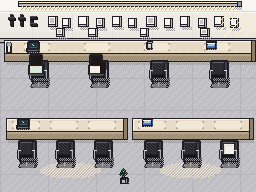
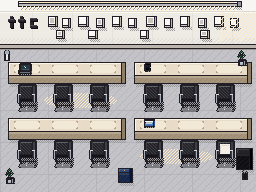
Strip hutong down to two parallel desk rows.
Remove the far-wall seats and any bottom strip. Keep ttc and frames on
the wall only. Center two workstation rows with empty pads; leftover
floor gets props, not more chairs.

diff --git a/public/index.html b/public/index.html
@@ -162,7 +162,7 @@
       </section>
       <section>
         <h2>保留场景 · 11</h2>
-        <p class="note">胡同（就两排桌子：远墙四座 + 再一排工位）/ 电梯间 / 夏威夷（开窗见蓝天高楼 · 左3椅 · 右3椅 · 约六座）/ 泡泡玛特 / 厕所 / 普通工位 / 会议室 / 演唱会 / 咖啡店 / 健身房 / 米线店。</p>
+        <p class="note">胡同（就两排平行工位，远墙只留装饰）/ 电梯间 / 夏威夷（开窗见蓝天高楼 · 左3椅 · 右3椅 · 约六座）/ 泡泡玛特 / 厕所 / 普通工位 / 会议室 / 演唱会 / 咖啡店 / 健身房 / 米线店。</p>
         <div class="grid" id="rooms"></div>
       </section>
       <section>
@@ -209,7 +209,7 @@
     const ROOMS = [
       { id:"hutong", title:"胡同工位区", src:"assets/scenes/hutong/scene_hutong.png",
         line:"这边还能放杯子。", y:148, t:"09:20", action:"sit_aisle",
-        why:"就两排桌子：远墙四座朝墙 + 再一排平行工位。ttc / 镜框。大块空 pad。" },
+        why:"就两排平行工位。远墙只留 ttc / 镜框，不靠墙摆桌或座。大块空 pad。" },
       { id:"elevator", title:"电梯间", src:"assets/scenes/elevator/scene_elevator.png",
         line:"先等这梯。", y:140, t:"09:12", action:"wait_lift",
         why:"米黄石材、开门、雕塑台座、屏与按钮。" },

diff --git a/scripts/generate_rooms.py b/scripts/generate_rooms.py
@@ -1,7 +1,7 @@
 #!/usr/bin/env python3
 """11 Laura-named scenes — 2.5D refined pixel, 256×192, empty desk pads.
 
-v3: hawaii open window + 6 seats; hutong two desk rows + 4 wall seats;
+v3: hawaii open window + 6 seats; hutong two parallel desk rows only;
 concert / cafe / gym / mixian added. Same 1px ink + wall-FACE language.
 """
 from __future__ import annotations
@@ -444,62 +444,62 @@ def office_floor(d, y0, c1, c2, seam):
 
 
 # ===========================================================================
-# 1. 胡同 — 就两排桌子：远墙一排四座 + 再一排平行工位
+# 1. 胡同 — 就两排平行工位（远墙只留装饰，无座无桌）
 # ===========================================================================
 def scene_hutong() -> Image.Image:
     room = new(W, H, HT["floor"])
     d = ImageDraw.Draw(room)
     office_floor(d, 46, HT["floor"], HT["floor2"], HT["gap"])
-    light_pool(d, 70, 170, 30, 8, HT["sun"], 3)
-    light_pool(d, 190, 170, 30, 8, HT["sun"], 3)
+    light_pool(d, 80, 100, 36, 8, HT["sun"], 3)
+    light_pool(d, 176, 156, 36, 8, HT["sun"], 3)
 
     rect(d, [0, 0, W - 1, 10], HT["ceil"])
     fluorescent(d, 18, 1, 220, HT["sun"])
-    wall_face(d, 0, 11, W - 1, 38, HT["wall"], lip=4, lip_c=HT["lip"])
-    draw_ttc(d, 8, 14)
+    wall_face(d, 0, 11, W - 1, 44, HT["wall"], lip=4, lip_c=HT["lip"])
+    draw_ttc(d, 8, 16)
     frames = (
         (48, 16, 8, 9), (62, 18, 7, 8), (78, 16, 9, 9),
         (96, 18, 7, 8), (112, 16, 8, 9), (128, 18, 7, 8),
         (146, 16, 9, 9), (164, 18, 7, 8), (180, 16, 8, 9),
         (198, 18, 7, 8), (214, 16, 8, 9), (230, 18, 7, 8),
-        (56, 28, 7, 7), (88, 28, 8, 7), (140, 28, 7, 7), (200, 28, 8, 7),
+        (56, 30, 7, 7), (88, 30, 8, 7), (140, 30, 7, 7), (200, 30, 8, 7),
     )
     for i, (fx, fy, fw, fh) in enumerate(frames):
         prism(d, fx, fy, fw, fh, 2, HT["frame"], HT["wall_d"], HT["lip"])
         if i % 3 == 0:
             rect(d, [fx + 2, fy + 2, fx + fw - 3, fy + fh - 3], shade(HT["wall_d"], -6))
-    dither(d, 220, 12, 254, 36, HT["sun"], 5)
+    dither(d, 220, 12, 254, 40, HT["sun"], 5)
+    # wall is decor only — no desk, no chairs against it
 
-    # ROW 1 — wall-flush desk + 4 chairs facing the wall
-    prism(d, 4, 40, 248, 14, 8, HT["desk"], HT["desk_e"])
-    dither(d, 8, 42, 246, 50, shade(HT["desk"], -12), 8)
-    top_bays = (16, 76, 136, 196)
-    top_items = (prop_laptop(), None, prop_cup(), prop_notebook())
-    for bx, spr in zip(top_bays, top_items):
-        empty_pad(d, bx + 8, 43, 26, 8, HT["pad"], shade(HT["desk_e"], 16))
-        if spr:
-            blit(room, spr, bx + 10, 41)
-        blit(room, chair_north(), bx + 12, 60)
-    blit(room, seated_facing_wall("cast_02"), 86, 54)
-    blit(room, seated_facing_wall("cast_05"), 26, 54)
+    def desk_row(y, left_item, right_item, jackets=(False, False)):
+        for x, item, jacket in (
+            (8, left_item, jackets[0]),
+            (134, right_item, jackets[1]),
+        ):
+            prism(d, x, y, 114, 14, 8, HT["desk"], HT["desk_e"])
+            empty_pad(d, x + 6, y + 3, 26, 8, HT["pad"], shade(HT["desk_e"], 16))
+            empty_pad(d, x + 44, y + 3, 26, 8, HT["pad"], shade(HT["desk_e"], 16))
+            empty_pad(d, x + 82, y + 3, 26, 8, HT["pad"], shade(HT["desk_e"], 16))
+            if item:
+                blit(room, item, x + 10, y + 1)
+            blit(room, chair_north(), x + 8, y + 22)
+            blit(room, chair_north(), x + 44, y + 22)
+            blit(room, chair_north(jacket=jacket), x + 80, y + 22)
 
-    # ROW 2 — one parallel workstation row (two islands, aisle in the middle)
-    for x, item, jacket in (
-        (6, prop_laptop(), False),
-        (132, prop_notebook(), True),
-    ):
-        prism(d, x, 118, 118, 14, 8, HT["desk"], HT["desk_e"])
-        empty_pad(d, x + 6, 121, 28, 8, HT["pad"], shade(HT["desk_e"], 16))
-        empty_pad(d, x + 44, 121, 28, 8, HT["pad"], shade(HT["desk_e"], 16))
-        empty_pad(d, x + 82, 121, 28, 8, HT["pad"], shade(HT["desk_e"], 16))
-        if item:
-            blit(room, item, x + 10, 118)
-        blit(room, chair_north(), x + 10, 140)
-        blit(room, chair_north(), x + 48, 140)
-        blit(room, chair_north(jacket=jacket), x + 86, 140)
+    # exactly two parallel workstation rows, centered in the floor
+    desk_row(62, prop_laptop(), prop_cup((40, 40, 46, 255)), (False, False))
+    desk_row(118, None, prop_notebook(), (False, True))
 
-    blit(room, prop_plant(), 118, 168)
-    blit(room, prop_spray(), 6, 42)
+    # leftover space: props / floor clutter — not more seats
+    blit(room, prop_plant(), 4, 168)
+    blit(room, prop_plant(), 236, 50)
+    blit(room, prop_spray(), 4, 50)
+    blit(room, prop_bottle(), 242, 168)
+    # bin
+    prism(d, 236, 148, 14, 6, 16, HT["chair"], shade(HT["chair"], -16))
+    # backpack on the aisle
+    prism(d, 118, 168, 12, 5, 10, (46, 72, 120, 255), (28, 44, 78, 255))
+    d.point((124, 170), fill=(210, 168, 80, 255))
     return room
 
 
@@ -1122,10 +1122,10 @@ def scene_mixian() -> Image.Image:
 
 SCENES = [
     dict(id="hutong", title="胡同工位区",
-         blurb="就两排桌子：远墙四座朝墙 + 再一排平行工位 · 大块空 pad",
+         blurb="就两排平行工位 · 远墙只留 ttc/镜框 · 大块空 pad",
          fn=scene_hutong, walk_y=148, line="这边还能放杯子。",
          beat_t="09:20", action="sit_aisle",
-         why="白墙 ttc + 镜框。就两排桌子：远墙一条浅色长桌、四把黑椅朝墙；再一排平行工位岛（中留过道、每岛三椅三 pad）。没有第三排。不描摹合影里的人。"),
+         why="就两排平行工位桌（每排两岛、中留过道、每岛三椅三 pad）。远墙只留 ttc 和镜框，不靠墙摆桌或座。没有底排。空地用植物/喷壶/垃圾桶补密度，不加座位。"),
     dict(id="elevator", title="电梯间",
          blurb="米黄石材 · 开门体积 · 雕塑台座 · 屏与按钮",
          fn=scene_elevator, walk_y=140, line="先等这梯。",

diff --git a/design/art-brief.md b/design/art-brief.md
@@ -15,7 +15,7 @@
 |------|------|
 | 相机 | 略俯，能看见桌面顶面和椅背 |
 | 角色 | 大头小身 chibi，不是写实肖像 |
-| 深度 | 阴影、墙厚、遮挡；胡同就两排桌子：远墙四座 + 再一排工位 |
+| 深度 | 阴影、墙厚、遮挡；胡同就两排平行工位，远墙只留装饰 |
 | 轮廓 | **1px** 深色描边，不要 2px 粗块 |
 | 缩放 | `image-rendering: pixelated`，整数倍 |
 
@@ -23,7 +23,7 @@
 
 | 场景 | 地板 | 光 | 硬规则 |
 |------|------|----|--------|
-| 胡同工位区 | 浅灰地 | 白墙顶灯 | 就两排桌子：远墙四座朝墙 + 再一排平行工位。保留 ttc / 镜框。大块空 pad。不描合影人物 |
+| 胡同工位区 | 浅灰地 | 白墙顶灯 | 就两排平行工位。远墙只留 ttc / 镜框，不靠墙摆桌或座。大块空 pad。不描合影人物 |
 | 电梯间 | 白石大理石 | 筒灯暖白 | 米黄石材、开门、雕塑、屏与按钮 |
 | 夏威夷 | 暖木 | 开窗日光 | 开窗可见蓝天高楼（像素天际线）。左竖桌内侧 3 椅，右竖桌旁 3 椅，约六座。窗前不摆椅。奶油墙。 |
 | 泡泡玛特 | 粉×薄荷细格 | 粉/青灯带 | 柜台不要堆死 |

diff --git a/design/scenes/hutong.md b/design/scenes/hutong.md
@@ -2,9 +2,9 @@
 
 > 精致像素 · 256×192 · 2.5D · 桌面留物位
 
-就两排桌子：远墙四座朝墙 + 再一排平行工位 · 大块空 pad
+就两排平行工位 · 远墙只留 ttc/镜框 · 大块空 pad
 
-白墙 ttc + 镜框。就两排桌子：远墙一条浅色长桌、四把黑椅朝墙；再一排平行工位岛（中留过道、每岛三椅三 pad）。没有第三排。不描摹合影里的人。
+就两排平行工位桌（每排两岛、中留过道、每岛三椅三 pad）。远墙只留 ttc 和镜框，不靠墙摆桌或座。没有底排。空地用植物/喷壶/垃圾桶补密度，不加座位。
 
 - `public/assets/scenes/hutong/scene_hutong.png`
 - `public/preview/zoomed/hutong.png`

diff --git a/README.md b/README.md
@@ -46,7 +46,7 @@ npx --yes serve public -p 4173
 
 | ID | 中文 | 要点 | 路径 |
 |----|------|------|------|
-| `hutong` | 胡同工位区 | 就两排桌子：远墙四座朝墙 + 再一排平行工位 | `public/assets/scenes/hutong/` |
+| `hutong` | 胡同工位区 | 就两排平行工位；远墙只留 ttc / 镜框 | `public/assets/scenes/hutong/` |
 | `elevator` | 电梯间 | 米黄石材、开门、雕塑台座、屏与按钮 | `public/assets/scenes/elevator/` |
 | `hawaii` | 夏威夷 | 开窗见蓝天高楼 · 左竖桌 3 椅 · 右竖桌 3 椅 · 约六座 | `public/assets/scenes/hawaii/` |
 | `popmart` | 泡泡玛特店 | 细格盲盒墙，柜台留空 | `public/assets/scenes/popmart/` |

diff --git a/design/day-in-life.md b/design/day-in-life.md
@@ -28,7 +28,7 @@
 
 ### 2 · 09:20 · 胡同工位区
 - `sit_aisle` 「这边还能放杯子。」
-- 白墙 ttc + 镜框。就两排桌子：远墙一条浅色长桌、四把黑椅朝墙；再一排平行工位岛（中留过道、每岛三椅三 pad）。没有第三排。不描摹合影里的人。
+- 就两排平行工位桌（每排两岛、中留过道、每岛三椅三 pad）。远墙只留 ttc 和镜框，不靠墙摆桌或座。没有底排。空地用植物/喷壶/垃圾桶补密度，不加座位。
 
 ### 3 · 09:40 · 夏威夷
 - `open_laptop` 「窗边这档先开。」
